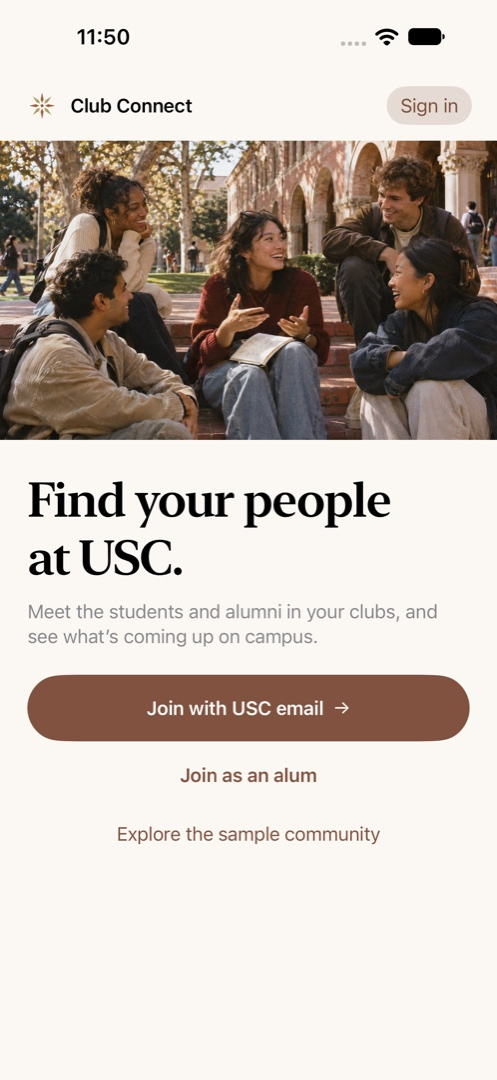
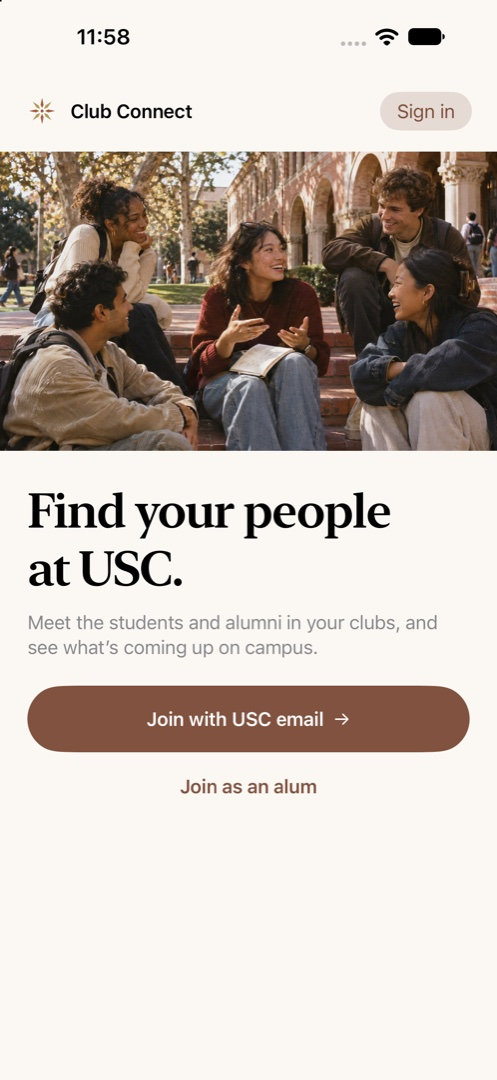
Record the tested two-club alumni flow and account deletion

diff --git a/ClubConnectUITests/OnboardingTests.swift b/ClubConnectUITests/OnboardingTests.swift
@@ -151,6 +151,20 @@ final class OnboardingTests: XCTestCase {
         XCTAssertTrue(app.navigationBars["Alumni UI Fixture"].waitForExistence(timeout: 8))
     }
 
+    func testVerifiedNonmemberCanDeleteTheirOwnAccount() throws {
+        let fixture = try hostedFixture("DELETION")
+        let app = welcome()
+        app.buttons["alumni-sign-up"].tap()
+        verify(app, email: fixture.email, code: fixture.code)
+        app.buttons["Account"].tap()
+        app.buttons["Delete account"].tap()
+        XCTAssertTrue(app.buttons["Delete my account"].waitForExistence(timeout: 5))
+        app.buttons["Delete my account"].tap()
+        XCTAssertTrue(app.alerts["Account deleted"].waitForExistence(timeout: 18))
+        app.buttons["Done"].tap()
+        XCTAssertTrue(app.buttons["returning-sign-in"].waitForExistence(timeout: 5))
+    }
+
     private func waitForLabel(_ text: String, on element: XCUIElement) async {
         let status = XCTNSPredicateExpectation(predicate: NSPredicate(format: "label CONTAINS %@", text), object: element)
         await fulfillment(of: [status], timeout: 18)

diff --git a/README.md b/README.md
@@ -2,7 +2,7 @@
 
 A native iPhone and iPad community app for USC students and alumni. MENASA is the pilot club. Students can use a verified USC address across campus clubs. Alumni who have lost their USC address can create an account with a personal email and apply to individual clubs.
 
-<img src="media/campus-clubs-iphone.jpg" alt="Campus club directory in the Club Connect palette" width="235"> <img src="media/club-page-iphone.jpg" alt="MENASA’s club page with upcoming events in its own colors" width="235">
+<img src="media/welcome-iphone.jpg" alt="Campus, alumni, and returning sign-in on the Release welcome screen" width="235"> <img src="media/campus-clubs-iphone.jpg" alt="Campus club directory in the Club Connect palette" width="235"> <img src="media/club-page-iphone.jpg" alt="MENASA’s club page with upcoming events in its own colors" width="235">
 
 <img src="media/people-iphone.jpg" alt="The MENASA directory in dark mode" width="215"> <img src="media/inbox-iphone.jpg" alt="The member inbox in light mode" width="215"> <img src="media/conversation-iphone.jpg" alt="A club conversation and its rounded message composer" width="215">
 
@@ -25,7 +25,7 @@ A native iPhone and iPad community app for USC students and alumni. MENASA is th
 3. The club’s organizer opens **Clubs → their club → Membership requests**, reviews the applicant’s name, verified email, graduation term, and note, then approves or declines. Each approval opens that club’s events, people, and messaging. An applicant can send a new request after a withdrawal or decline.
 4. To point alumni at a particular club, use **Share alumni signup** on its page. The shared link selects the club. The recipient still needs an organizer’s approval. Installing the internal TestFlight build requires separate access to the beta.
 
-<img src="media/welcome-iphone.jpg" alt="Club Connect with USC and personal-email signup options" width="235"> <img src="media/alumni-review-iphone.jpg" alt="An organizer reviewing a fictional alum's application in the sample community" width="235">
+<img src="media/alumni-requests-iphone.jpg" alt="Two alumni applications awaiting independent decisions" width="235"> <img src="media/alumni-clubs-iphone.jpg" alt="One approved club and one pending request in a two-club membership test" width="235"> <img src="media/alumni-review-iphone.jpg" alt="An organizer reviewing a fictional alum's application in the sample community" width="235">
 
 For the comparison of onboarding approaches and the pilot design decision, see [Joining a club](design/onboarding.md).
 
